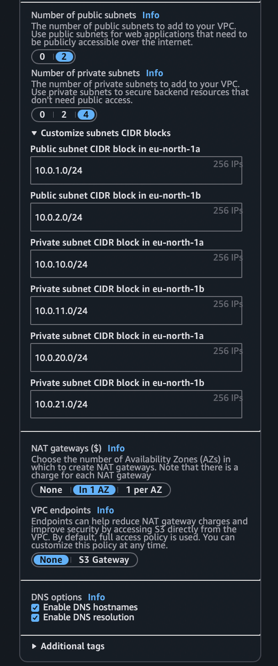
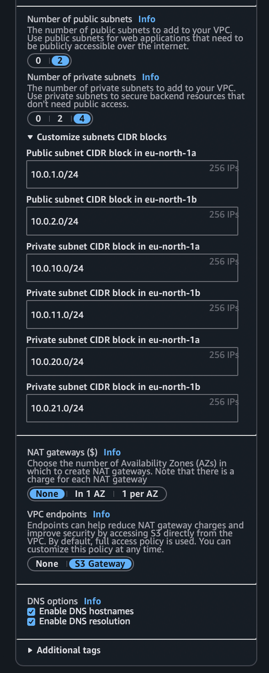
update guide

Changed region(s): [[0.0297, 0.0, 0.9814, 1.0], [0.7732, 0.4505, 0.8922, 0.6306], [0.4758, 0.5706, 0.7435, 0.6006]]

diff --git a/guide/cicd-guide.md b/guide/cicd-guide.md
@@ -132,6 +132,11 @@ spring:
 
 ![img.png](cicd-guide-img/img4.png)
 
+- NAT-gateway is needed if your app needs to fetch external resources (Google Fonts, Stripe API, etc.) at runtime.
+  - stories-app is simple app that doesn't call external resources so there is no need for NAT-gateway.
+
+[//]: # (- ‼If you are following [Deploy Applications on AWS Fargate &#40;ECS Tutorial + Hands-On Project&#41;]&#40;https://www.youtube.com/watch?v=C6v1GVHfOow&t=3337s&#41;: NAT-gateway is used atleast with the Lambda that rotates database secrets. In this guide **VPC endpoint** is used instead of NAT-gateway.)
+
 ![img.png](cicd-guide-img/img5.png)
 
 #### Subnet names
@@ -169,23 +174,223 @@ spring:
 
 ## AWS ECR
 
-- Go to **Elastic Container Registry** and select **Create**
+- Go to **Elastic Container Registry** and select "Create"
 
 ![img.png](cicd-guide-img/img10.png)
 
-- After repository is created go to repository and select **View push commands**
+- After repository is created go to repository and select "View push commands"
 - Folow those commands and push image to the repository. (Remember build your Spring app with lates changes before push).
 
 
 
 ## AWS RDS
 
+- Navigate to **Aurora and RDS** service
+- First we need to create **DB Subnet group**. Select "Create DB subnet group"
+
+![img.png](cicd-guide-img/img11.png)
+
+- Next we create Database. Go to "Databases" in **RDS** and select "Create database"
+
+![img_1.png](cicd-guide-img/img12.png)
+
+- We will configure Secrets Manager later.
+
+![img_2.png](cicd-guide-img/img13.png)
+
+![img_3.png](cicd-guide-img/img14.png)
+
+- You can check from the "Additional configuration" that the port is correct. 
+
+![img_4.png](cicd-guide-img/img15.png)
+
+![img_5.png](cicd-guide-img/img16.png)
+
+- In "Additional configuration" add "Initial database name".
+
+![img_6.png](cicd-guide-img/img17.png)
+
+- Then select "Create".
+
+- You get notification where you can copy to master password. If you forget to do that, go to your db instance and select "Modify" and then set a new master password. 
+
+## AWS Secrets Manager, Secret rotation with Lambda, VPC endpoint
+
+- Create follown Security Group
+
+![img.png](cicd-guide-img/img18.png)
+
+- And then edit **stories-data-sg** security group by adding following inpound rule:
+
+![img_1.png](cicd-guide-img/img19.png)
+
+- Navigate to the AWS Secrets Manager service and select "Store a new secret"
+
+![img_2.png](cicd-guide-img/img20.png)
+
+- ❗Make sure that "Secret name" matches excatly the one which is configured in the `application-aws.yaml`
+
+![img_3.png](cicd-guide-img/img21.png)
+
+![img_4.png](cicd-guide-img/img22.png)
+
+![img_5.png](cicd-guide-img/img23.png)
+
+![img_6.png](cicd-guide-img/img24.png)
+
+- Navigate to the **Lambda** service and select the created Lambda function. 
+- Then select "Configuration" and from there select "VPC" and then "Edit" and change Security Group for "stories-lambda-db-access-sg"
+
+![img_7.png](cicd-guide-img/img25.png)
+
+- Next create following Security Group:
+
+![img_13.png](cicd-guide-img/img26.png)
 
 
+- Navigate to **VPC** service, select "Endpoints" and "Create endpoint"
+
+![img_13.png](cicd-guide-img/img27.png)
+
+![img_14.png](cicd-guide-img/img28.png)
+
+![img_15.png](cicd-guide-img/img29.png)
 
 
+- After the enpoint is created, you can test rotation on the Secrets Manger service (Rotation -> Rotate secrets immediately).
 
 
+## Target Group
+
+- Navigate to **EC2** service and go to **Target Groups** and then select "Create target group"
+
+![img.png](cicd-guide-img/img31.png)
+
+![img_1.png](cicd-guide-img/img32.png)
+
+Remove manually entered IP address.
+
+![img_2.png](cicd-guide-img/img33.png)
+
+
+## Application Load Balancer
+
+- In **EC2** service go to the **Load Balancers** and select "Create load balancer" and then select "Application Load Balancer"
+
+![img_3.png](cicd-guide-img/img34.png)
+
+![img_4.png](cicd-guide-img/img35.png)
+
+- Check the Summary and select "Create load balancer"
+
+![img_5.png](cicd-guide-img/img36.png)
+
+
+## IAM Roles & Policies
+
+- Navigate to **IAM** service and go to the **Policies** and select "Create policy"
+
+- Select **Secret Manager** as a Service:
+
+![img_6.png](cicd-guide-img/img37.png)
+
+- From the list check "GetSecretValue"
+
+![img_7.png](cicd-guide-img/img38.png)
+
+- To other tab open **Secret Manager** service, select secret that we created earlier and copy **Secret ARN**
+
+- Go back to the policy creation page and select "Add ARNs"
+
+- Paste copiod ARN (when you paste ARN other fields will be filled automatically) and then select "Add ARNs". After that select "Next".
+
+![img_8.png](cicd-guide-img/img39.png)
+
+![img_9.png](cicd-guide-img/img40.png)
+
+- In the **IAM** service go to **Roles** and select "Create role"
+
+![img_10.png](cicd-guide-img/img41.png)
+
+![img_11.png](cicd-guide-img/img42.png)
+
+![img_12.png](cicd-guide-img/img43.png)
+
+![img_13.png](cicd-guide-img/img44.png)
+
+
+## ECS Cluster
+
+- Navigate to **Elastic Container Service**, go to **Clusters** and select "Create cluster"
+
+![img.png](cicd-guide-img/img45.png)
+
+
+## ECS Task definition
+
+- In **Elastic Container Service** go to **Task definition** and select "Create new task definition"
+
+- ❗ Select for "Operating system/Architecture" "Linux/ARM64" if you used ARM64 for building image (e.g. Mac with M-series chip)
+
+![img_1.png](cicd-guide-img/img46.png)
+
+![img_2.png](cicd-guide-img/img47.png)
+
+![img_3.png](cicd-guide-img/img48.png)
+
+
+## ECS Service
+
+- Navigate to the cluster we created earlier and there in the "Services" section select "Create"
+
+![img_4.png](cicd-guide-img/img49.png)
+
+![img_5.png](cicd-guide-img/img50.png)
+
+![img_6.png](cicd-guide-img/img51.png)
+
+![img_7.png](cicd-guide-img/img52.png)
+
+![img_8.png](cicd-guide-img/img53.png)
+
+- When you press "Create" the deployment will start, but it will fail. We need to create missing VPC endpoints and Security Group. 
+
+## VPC endpoints
+
+https://docs.aws.amazon.com/AmazonECR/latest/userguide/vpc-endpoints.html
+
+![img_2.png](cicd-guide-img/img54.png)
+
+![img.png](cicd-guide-img/img55.png)
+
+![img_6.png](cicd-guide-img/img56.png)
+
+![img_3.png](cicd-guide-img/img57.png)
+
+![img_4.png](cicd-guide-img/img58.png)
+
+![img_5.png](cicd-guide-img/img59.png)
+
+![img_6.png](cicd-guide-img/img60.png)
+
+![img_7.png](cicd-guide-img/img61.png)
+
+![img_8.png](cicd-guide-img/img62.png)
+
+![img_9.png](cicd-guide-img/img63.png)
+
+![img_10.png](cicd-guide-img/img64.png)
+
+![img_11.png](cicd-guide-img/img65.png)
+
+![img_12.png](cicd-guide-img/img66.png)
+
+- We also need to add Security group "stories-vpc-endpoint-app-sg" to the "stories-vpc-endpoint-secrets-manager" so navigate there and add select "Manage security groups":
+
+![img_13.png](cicd-guide-img/img67.png)
+
+- Navigate back to the **Amazon Elastic Container** service and select **Clusters** -> cluster created earlier -> service created earlier -> from "Update service" select "Force new deployment"
+- When deployment is finnished, navigate to the **EC2** service and **Load Balancers** and select load balancer created earlier and copy "DNS name" and paste the address to the browser and make sure that your app is running. 
 
 
 
